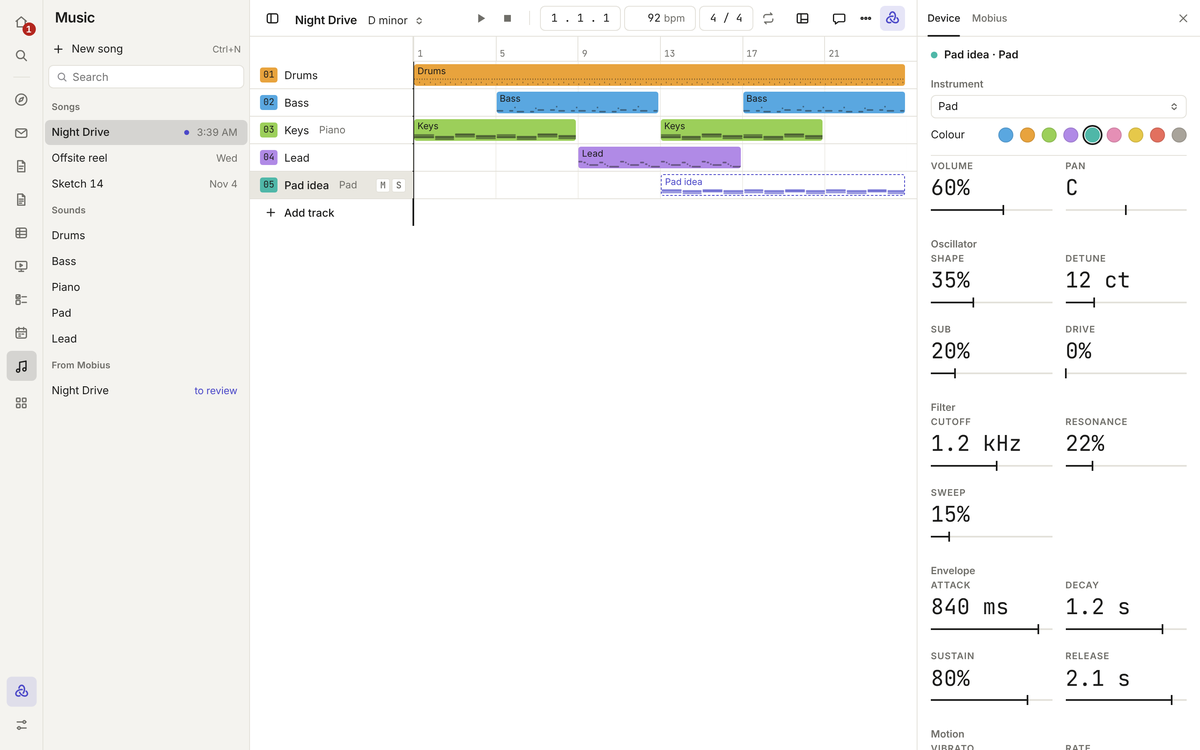
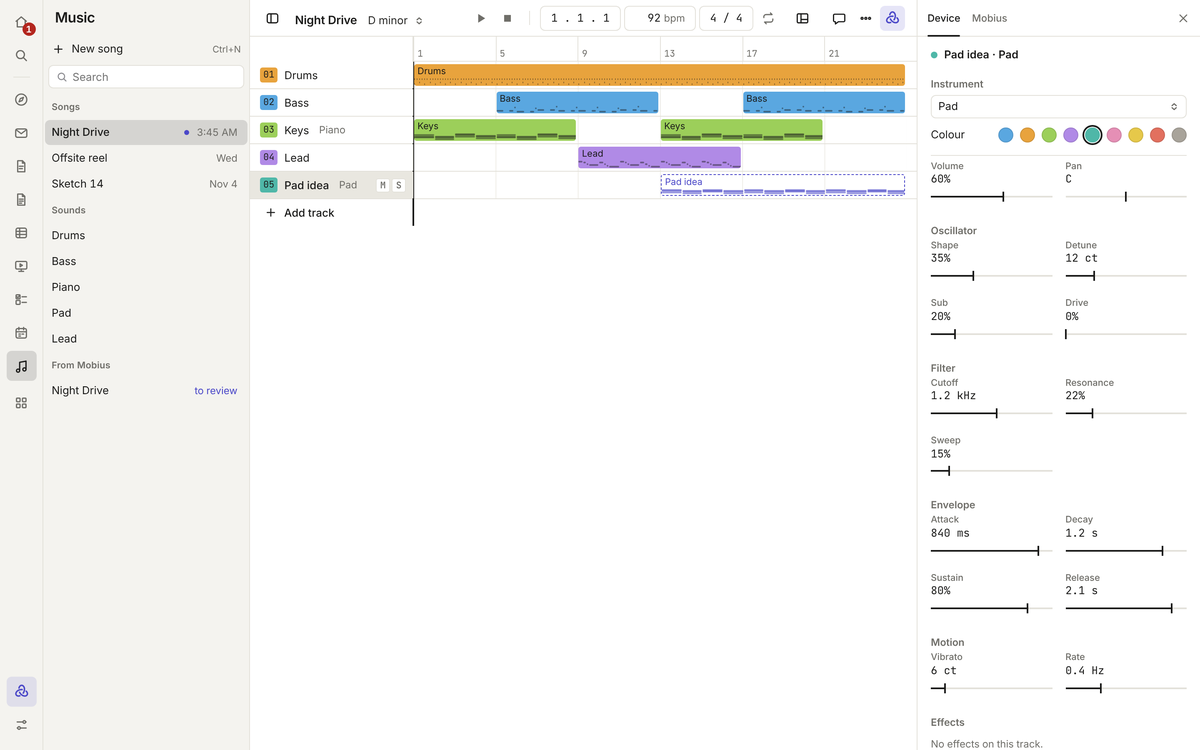
Music: compact parameter cells and a line on what each effect does
Every Device panel cell uses ParamCell size="compact" (13px mono value,
sentence-case name), and Add effect says what each effect does with
MenuEntry.detail, both from the shared library (#232).

Claude-Session: https://claude.ai/code/session_01VRGwo92y9AyxCvHYC61ZVd

diff --git a/apps/desktop/src/Studio.tsx b/apps/desktop/src/Studio.tsx
@@ -168,7 +168,7 @@ const KIT_CELLS: readonly { k: keyof KitSound; name: string; step: number; log?:
 /** One of the Device panel's settings, as the shared parameter cell. Double-click puts it back to the instrument's own. */
 function DeviceSlider({ name, k, value, base, onChange }: { name: string; k: keyof Sound; value: number; base: number; onChange: (v: number) => void }) {
   const { lo, hi } = SOUND_RANGE[k];
-  return <ParamCell label={name} value={value} min={lo} max={hi} step={SOUND_STEP[k]} scale={LOG_SOUND.has(k) ? 'log' : 'linear'} reset={base} format={(v) => soundText(k, v)} onChange={onChange} />;
+  return <ParamCell size="compact" label={name} value={value} min={lo} max={hi} step={SOUND_STEP[k]} scale={LOG_SOUND.has(k) ? 'log' : 'linear'} reset={base} format={(v) => soundText(k, v)} onChange={onChange} />;
 }
 
 /** How an effect's setting reads: "+3.0 dB", "1.2 kHz", "4:1", "12 ms", "35%", "2.0 s". */
@@ -179,6 +179,12 @@ const EFFECT_CELLS: { [K in EffectKind]: readonly { k: string; name: string; ste
   reverb: [{ k: 'size', name: 'Size', step: 0.1, log: true }, { k: 'damp', name: 'Damp', step: 0.01 }, { k: 'mix', name: 'Mix', step: 0.01 }],
 };
 /** A delay's echo time, in beats, as note values (a beat is a quarter note). */
+const EFFECT_DETAILS: { [K in EffectKind]: string } = {
+  eq: 'Lifts or cuts the lows, mids and highs',
+  compressor: 'Evens out loud and quiet notes',
+  delay: 'Echoes that fade, in time with the song',
+  reverb: 'Puts the track in a room or hall',
+};
 const DELAY_TIMES = [{ value: '0.25', label: '1/16' }, { value: '0.5', label: '1/8' }, { value: '0.75', label: '3/16' }, { value: '1', label: '1/4' }, { value: '1.5', label: '3/8' }, { value: '2', label: '1/2' }] as const;
 
 /** One effect on the track: its name, on or off, moved up or down the chain or taken off, and its settings. */
@@ -205,7 +211,7 @@ function EffectBlock({ effect, at, count, onChange, onMove, onRemove }: {
       <ParamGrid label={`${name} settings`}>
         {EFFECT_CELLS[effect.kind].map(({ k, name: cell, step, log, origin }) => {
           const r = EFFECT_PARAMS[effect.kind][k]!;
-          return <ParamCell key={k} label={cell} value={values[k]!} min={r.lo} max={r.hi} step={step} scale={log ? 'log' : 'linear'} origin={origin} reset={r.start} format={(v) => effectText(effect.kind, k, v)} onChange={(v) => onChange((e) => { (e as unknown as Record<string, number>)[k] = v; }, `fx:${k}`)} />;
+          return <ParamCell size="compact" key={k} label={cell} value={values[k]!} min={r.lo} max={r.hi} step={step} scale={log ? 'log' : 'linear'} origin={origin} reset={r.start} format={(v) => effectText(effect.kind, k, v)} onChange={(v) => onChange((e) => { (e as unknown as Record<string, number>)[k] = v; }, `fx:${k}`)} />;
         })}
       </ParamGrid>
     </section>
@@ -244,8 +250,8 @@ export function StudioDevice({ track, onTrack, proposal }: {
             </div>
           </div>
           <ParamGrid label="Level">
-            <ParamCell label="Volume" value={track.volume} min={0} max={1} step={0.01} reset={0.8} format={(v) => `${Math.round(v * 100)}%`} onChange={(v) => onTrack((t) => { t.volume = v; }, 'volume')} />
-            <ParamCell label="Pan" value={track.pan} min={-1} max={1} step={0.01} reset={0} format={panText} onChange={(v) => onTrack((t) => { t.pan = v; }, 'pan')} />
+            <ParamCell size="compact" label="Volume" value={track.volume} min={0} max={1} step={0.01} reset={0.8} format={(v) => `${Math.round(v * 100)}%`} onChange={(v) => onTrack((t) => { t.volume = v; }, 'volume')} />
+            <ParamCell size="compact" label="Pan" value={track.pan} min={-1} max={1} step={0.01} reset={0} format={panText} onChange={(v) => onTrack((t) => { t.pan = v; }, 'pan')} />
           </ParamGrid>
           {sound && base && SOUND_GROUPS.map((g) => (
             <section key={g.name} className="studio-dev-section" aria-label={g.name}>
@@ -259,7 +265,7 @@ export function StudioDevice({ track, onTrack, proposal }: {
             <section className="studio-dev-section" aria-label="Kit">
               <h4 className="studio-dev-head">Kit</h4>
               <ParamGrid label="Kit">
-                {KIT_CELLS.map(({ k, name, step, log }) => <ParamCell key={k} label={name} value={kit[k]} min={KIT_RANGE[k].lo} max={KIT_RANGE[k].hi} step={step} scale={log ? 'log' : 'linear'} origin={KIT_DEFAULTS[k]} reset={KIT_DEFAULTS[k]} format={(v) => kitText(k, v)} onChange={(v) => setKit(k, v)} />)}
+                {KIT_CELLS.map(({ k, name, step, log }) => <ParamCell size="compact" key={k} label={name} value={kit[k]} min={KIT_RANGE[k].lo} max={KIT_RANGE[k].hi} step={step} scale={log ? 'log' : 'linear'} origin={KIT_DEFAULTS[k]} reset={KIT_DEFAULTS[k]} format={(v) => kitText(k, v)} onChange={(v) => setKit(k, v)} />)}
               </ParamGrid>
               <p className="studio-dev-note">Every drum in the kit, together. Each drum has its own row in the notes.</p>
             </section>
@@ -276,7 +282,7 @@ export function StudioDevice({ track, onTrack, proposal }: {
               onMove={(by) => onTrack((t) => { const fx = t.fx ?? []; const j = fx.findIndex((f) => f.id === e.id); const to = j + by; if (j < 0 || to < 0 || to >= fx.length) return; [fx[j], fx[to]] = [fx[to]!, fx[j]!]; })}
               onRemove={() => onTrack((t) => { t.fx = (t.fx ?? []).filter((f) => f.id !== e.id); if (t.fx.length === 0) delete t.fx; })} />
           ))}
-          <Menu label="Add effect" entries={EFFECT_KINDS.map((k) => ({ label: EFFECT_NAMES[k], run: () => onTrack((t) => { t.fx = [...(t.fx ?? []), newEffect(k, freshEffectId(t))]; }) }))}
+          <Menu label="Add effect" entries={EFFECT_KINDS.map((k) => ({ label: EFFECT_NAMES[k], detail: EFFECT_DETAILS[k], run: () => onTrack((t) => { t.fx = [...(t.fx ?? []), newEffect(k, freshEffectId(t))]; }) }))}
             trigger={<Button kind="quiet" icon={<Icon d="M10 4.5v11M4.5 10h11" />}>Add effect</Button>} />
         </section>
       )}

diff --git a/apps/desktop/e2e/studio.spec.ts b/apps/desktop/e2e/studio.spec.ts
@@ -182,7 +182,7 @@ test('effects are added to a track, switched off and moved, kept in the song', a
   const device = shell().getByRole('region', { name: 'Device' });
   for (const name of ['Delay', 'EQ']) {
     await device.getByRole('button', { name: 'Add effect' }).click();
-    await shell().getByRole('menuitem', { name, exact: true }).click();
+    await shell().getByRole('menuitem', { name: new RegExp('^' + name + ' ') }).click();
   }
   await expect.poll(() => (saved().tracks[0] as { fx?: { kind: string }[] }).fx?.map((e) => e.kind)).toEqual(['delay', 'eq']);
   await device.getByRole('button', { name: 'Move EQ up' }).click();
